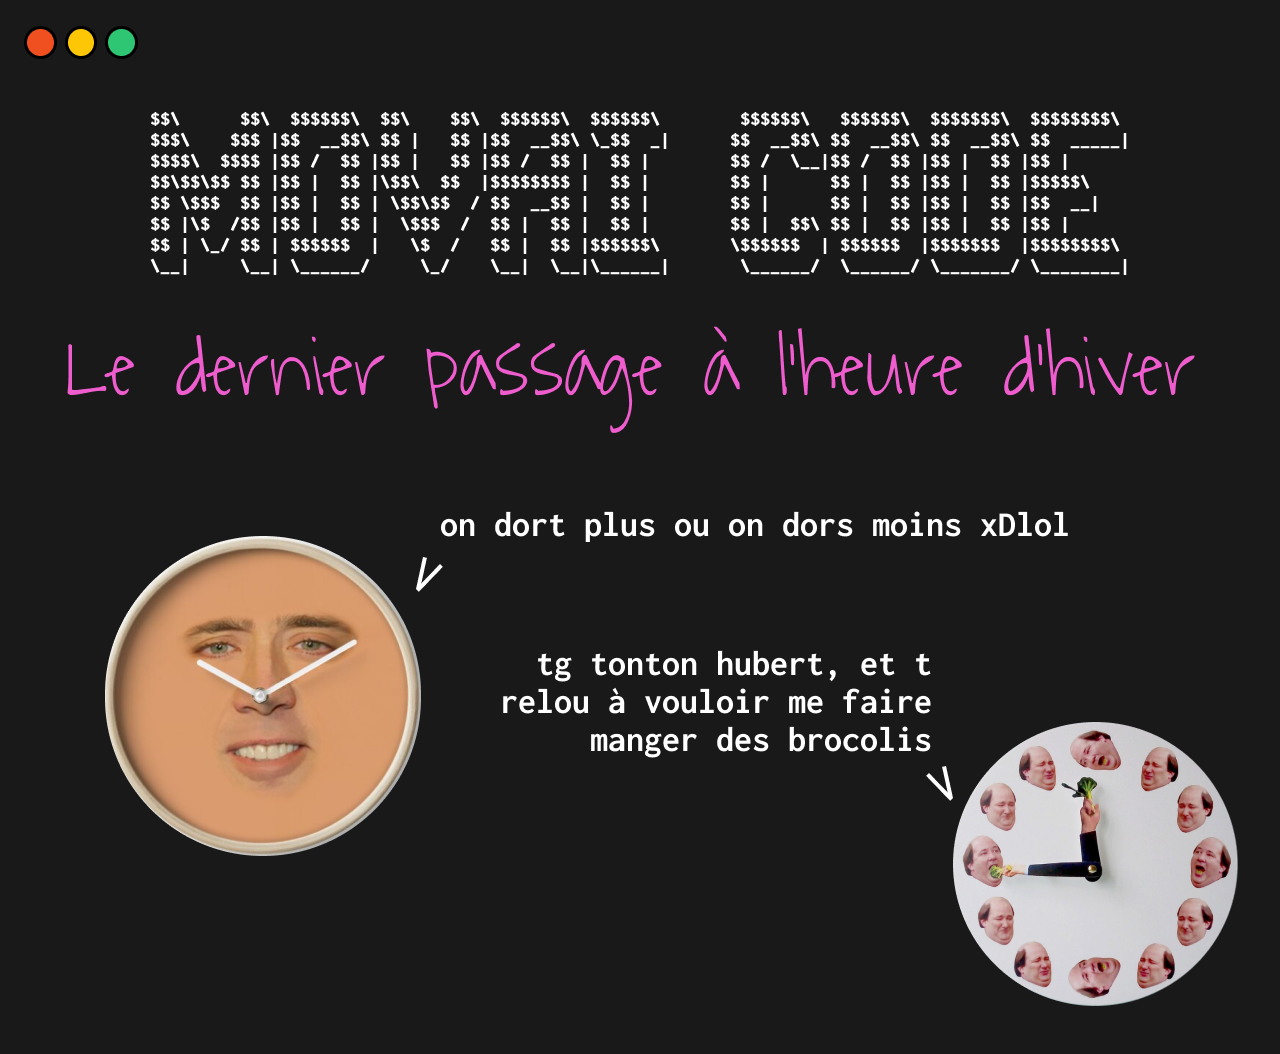
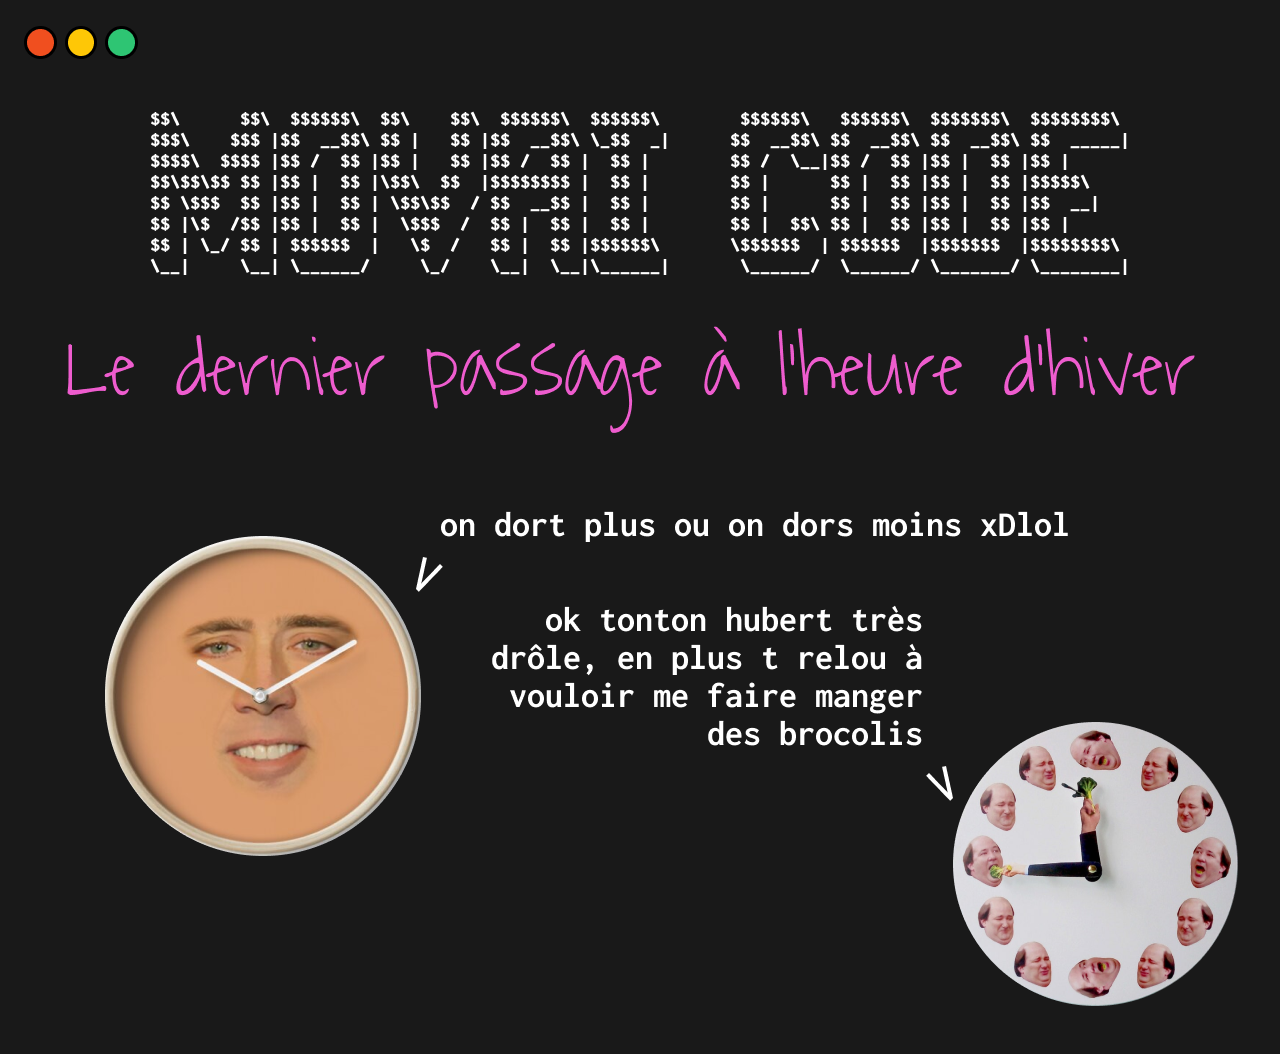
fix(movaicode/5): changed img + fixed typo

Changed region(s): [[0.375, 0.5769, 0.7188, 0.7287]]

diff --git a/README.md b/README.md
@@ -49,7 +49,7 @@ def switch_to_l_heure_d_hiver(heure_d_ete: datetime) -> datetime:
 _Et bien évidemment, de la manière la plus exécrable, la plus compliquée ou la moins optimisée possible._
 
 
-## Date de clôture des contributions : 31 octobre à 3h00 (ou à 2h00 ses pareil vu ke ses leur allakel on change lol)
+## Date de clôture des contributions : 31 octobre à 3h00 (ou à 2h00 ses pareilles vu ke ses leur allakel on change lol)
 
 
 ## Gain
